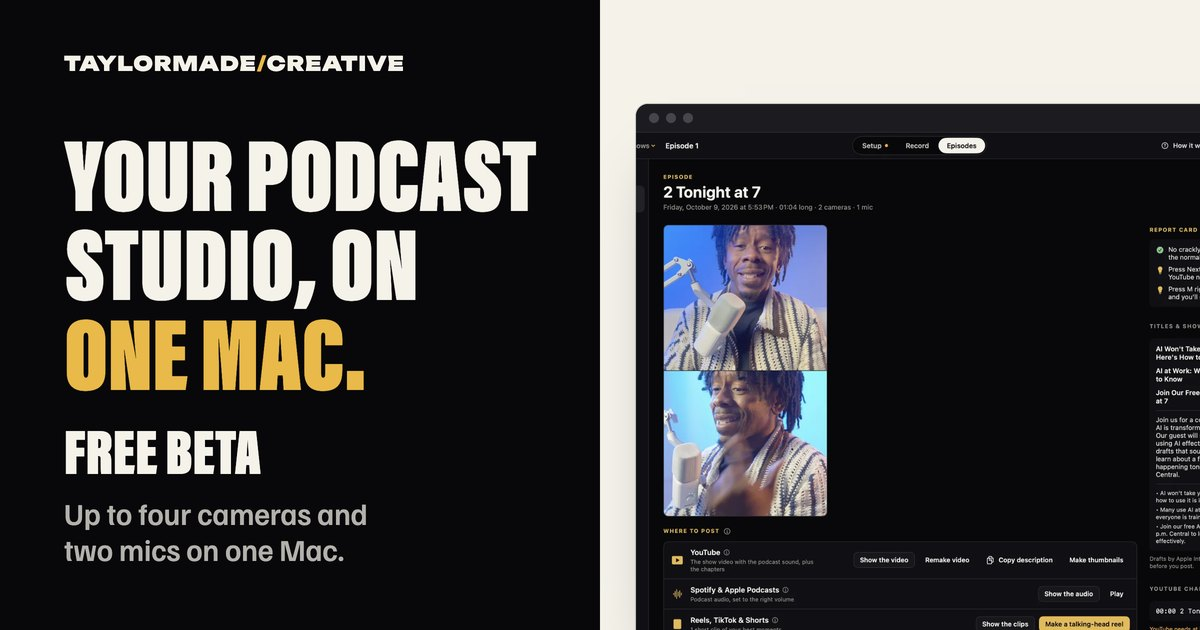
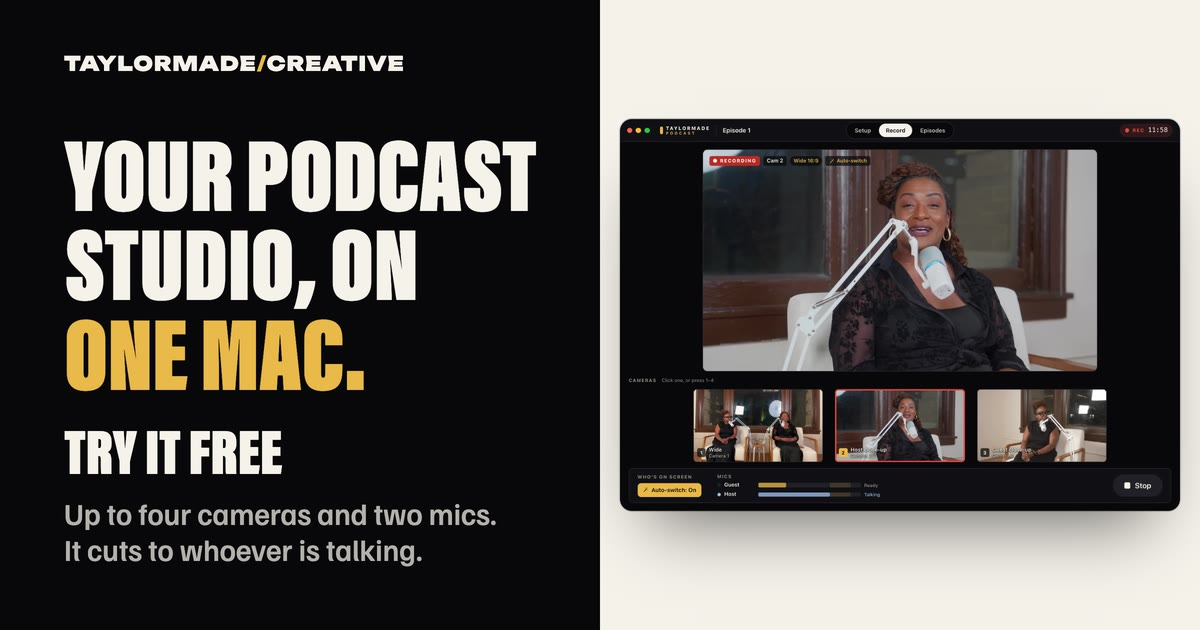
Podcast app share image: the 3-camera Record screen, "Try it free"
The old card showed the Episodes screen with a solo vertical take, which
didn't read as a podcast app. The new one shows the Record screen on
Auntie PB's episode: the host's close-up on the show, all three camera
tiles, both mic meters, Auto-switch on. ?v=2 so share previews refetch.

diff --git a/podcast-app/index.html b/podcast-app/index.html
@@ -19,15 +19,15 @@
   <meta property="og:site_name" content="Taylormade Creative">
   <meta property="og:title" content="Taylormade Podcast for Mac: free beta">
   <meta property="og:description" content="Up to four cameras and two mics on one Mac. It cuts to whoever is talking. When you stop: your YouTube video, your podcast and edit files, and on macOS 26 a transcript, clips and AI-drafted show notes.">
-  <meta property="og:image" content="https://www.taylormadecreative.net/assets/img/og/podcast-app.jpg">
+  <meta property="og:image" content="https://www.taylormadecreative.net/assets/img/og/podcast-app.jpg?v=2">
   <meta property="og:image:width" content="1200">
   <meta property="og:image:height" content="630">
-  <meta property="og:image:alt" content="Taylormade Creative: Your podcast studio, on one Mac. Free beta. Up to four cameras and two mics on one Mac.">
+  <meta property="og:image:alt" content="Your podcast studio, on one Mac. Try it free. Taylormade Podcast recording a two-person show: the host's close-up is on the show, the wide shot and both close-ups sit underneath, and each mic has its own meter.">
   <meta property="og:url" content="https://www.taylormadecreative.net/podcast-app/">
   <meta name="twitter:card" content="summary_large_image">
   <meta name="twitter:title" content="Taylormade Podcast for Mac: free beta">
   <meta name="twitter:description" content="Your podcast studio on one Mac: the video, the podcast, the reels and the transcript.">
-  <meta name="twitter:image" content="https://www.taylormadecreative.net/assets/img/og/podcast-app.jpg">
+  <meta name="twitter:image" content="https://www.taylormadecreative.net/assets/img/og/podcast-app.jpg?v=2">
   <meta name="robots" content="index,follow">
 
   <meta name="theme-color" content="#08080a">
